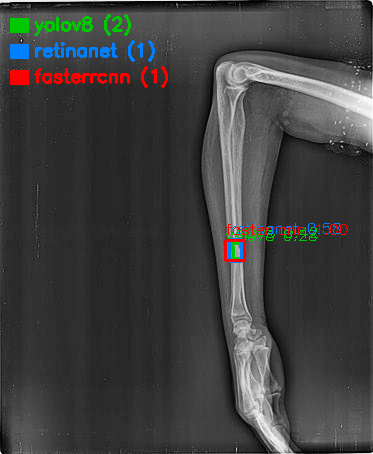
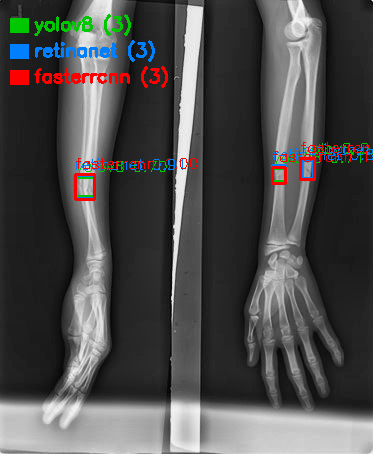
v3: data scale-up with GRAZPEDWRI-DX — sensitivity 0.56 -> 0.81
Merged FracAtlas + GRAZPEDWRI-DX (Roboflow mirror, 1,599 fracture-positive
images) into dataset_v3, 3.2x'ing the fracture-positive count. Retrained
YOLOv8m: test mAP@0.5 0.46 -> 0.76, image-level sensitivity 0.56 -> 0.81,
max achievable recall ceiling 0.797 -> 0.875.

Gains are wrist-concentrated (GRAZPEDWRI is wrist-only); hip/shoulder remain
unevaluable and unaddressed — documented honestly in README + JOURNAL Entry 006.
Updated the live comparison overlay to the v3 model on a FracAtlas test image.

diff --git a/scripts/ingest_grazpedwri.py b/scripts/ingest_grazpedwri.py
@@ -113,7 +113,7 @@ def main() -> None:
     print(f"  background      : {n_neg}")
     print(f"  fracture boxes  : {n_boxes}")
     print(f"  output          : {args.out}")
-    print(f"  (fracture class {args.fracture_class} → 0; other classes dropped)")
+    print(f"  (fracture class {args.fracture_class} -> 0; other classes dropped)")
     if n_pos == 0:
         print("  WARNING: 0 fracture rows kept — check --fracture-class vs the "
               "dataset's data.yaml!")

diff --git a/JOURNAL.md b/JOURNAL.md
@@ -332,3 +332,50 @@ Verified with a save/load round-trip, then RETRAINED RetinaNet → loads & score
 ### Status: v1 is code-complete and staged. Pending user: push + Pages enable.
 ### Next (v1.1+, Track D): acquire GRAZPEDWRI-DX → ingest → merge → retrain to
 lift the 0.797 recall ceiling; revisit fracture-typing via Roboflow HUMERUS.
+
+---
+
+## Entry 006 — 2026-06-14 — Track D: GRAZPEDWRI merge lifts the ceiling (v3)
+
+### Acquisition reality check
+The raw Figshare GRAZPEDWRI-DX release has **no bounding-box labels** — only
+images + image-level metadata (`dataset.csv`, which DOES carry AO/OTA
+`ao_classification` codes → a future Track-B typing source). YOLO boxes come from
+derivatives. Sourced via the **Roboflow mirror** (project-bef88/grazpedwri-dx
+v2) — but it is a **~2,396-image SUBSET**, not the full 20k. Fracture class index
+there is **2**, not 3 (8 classes, `foreignbody` dropped).
+
+### Ingest + merge
+`ingest_grazpedwri.py --fracture-class 2` → **1,599 fracture-positive** images
+(+797 bg, 2,111 boxes). Merged with `FracAtlas_proc` → `dataset_v3`
+(4,861 / 971 / 647). This **3.2×'d the fracture-positive image count**
+(717 → 2,316) — the decisive change, since FracAtlas was mostly negatives.
+
+### v3 results (YOLOv8m, early-stop epoch 92, best 69)
+| Metric (test) | v1 | v3 | Δ |
+|---|---|---|---|
+| mAP@0.5 | 0.460 | **0.761** | +65% |
+| mAP@0.5:0.95 | 0.198 | **0.369** | +86% |
+| image-level sensitivity | 0.561 | **0.812** | +45% |
+| specificity | 0.988 | 0.980 | ~flat |
+| PPV | 0.902 | **0.961** | +7% |
+| **max achievable recall** | 0.797 | **0.875** | ceiling lifted |
+
+### Honest read — gains are wrist-concentrated
+Per-region sensitivity: **unknown (GRAZPEDWRI wrist) 0.879** (174/244 test
+positives), hand 0.568→**0.705**, leg ~flat (0.538). **Hip & shoulder still 0
+test positives — unevaluable and unaddressed.** The headline jump is real but
+driven by the wrist distribution we added; the original FracAtlas regions
+improved modestly. GRAZPEDWRI being wrist-only means hip/shoulder remain the open
+gap (need Roboflow Hip/Humerus).
+
+### Decisions
+- **Shipped model is now `fracture_yolov8m_v3`.** Site overlay + README updated
+  to v3 (on a FracAtlas test image so all 3 backbones get a fair comparison).
+- Backbone study stays on `dataset_v2` (apples-to-apples); v3 is the data-scaling
+  result, presented separately to avoid mixing test sets.
+- Full 20k GRAZPEDWRI (OneDrive) and hip/shoulder sets remain the next data lever.
+
+### Status: v3 trained, evaluated, site regenerated, staged for commit.
+### Next: commit v3 (user pushes); then Roboflow Hip/Humerus for the remaining
+blind spots + AO/OTA typing track (data now identified in dataset.csv).

diff --git a/README.md b/README.md
@@ -11,35 +11,42 @@ separately or together.
 > ⚠️ Research/educational tool only. Outputs are "best guess" estimates and are
 > **not** a medical diagnosis. Always recommend a qualified orthopedic consult.
 
-## Results (current model)
+## Results
 
-Detector **YOLOv8m**, trained on the Phase-1 harmonized FracAtlas split
-(`dataset_v2`), evaluated on the held-out test split. The screening metrics
-matter more than mAP here — for fracture triage a *miss* is worse than a false
-alarm — so image-level sensitivity/specificity are reported alongside.
+Shipped detector: **YOLOv8m** (`fracture_yolov8m_v3`), trained on the harmonized
+**FracAtlas + GRAZPEDWRI-DX** merge (`dataset_v3`). The model improved in three
+deliberate stages — bigger backbone + harmonization, then a data scale-up — and
+the gains are reported honestly, including *where they did and didn't land*.
 
-**Backbone comparison** (same test split, single `fracture` class):
+**Progression** (held-out test split, image-level screening):
+
+| Version | Data | mAP@0.5 | Sensitivity | Specificity | Max recall |
+|---|---|---|---|---|---|
+| v1-baseline (v8s) | FracAtlas | 0.27 | — | — | — |
+| v1 (v8m, harmonized) | FracAtlas | 0.46 | 0.561 | 0.988 | 0.797 |
+| **v3 (v8m + GRAZPEDWRI)** | FracAtlas + wrist | **0.76** | **0.812** | 0.980 | **0.875** |
+
+v3 PPV **0.961** (TP 198 / FP 8 / TN 395 / FN 46 on 647 test images).
+
+**Backbone study** (separate apples-to-apples comparison on `dataset_v2`, all
+three trained + tested on identical data):
 
 | Backbone | mAP@0.5 | mAP@0.5:0.95 | Recall |
 |---|---|---|---|
-| **YOLOv8m** (shipped) | **0.460** | **0.198** | **0.429** |
+| **YOLOv8m** | **0.460** | **0.198** | **0.429** |
 | Faster R-CNN R50-FPNv2 | 0.354 | 0.171 | 0.288 |
 | RetinaNet R50-FPNv2 | 0.240 | 0.072 | 0.188 |
 
-**Image-level screening** (YOLOv8m, conf ≥ 0.25): sensitivity **0.561**,
-specificity **0.988**, PPV **0.902** (TP 37 / FP 4 / TN 338 / FN 29).
-
-**Honest limitations** (see [JOURNAL.md](JOURNAL.md) for the full analysis):
-- Harmonization (CLAHE + truncation repair + imgsz 800 + bigger backbone)
-  **nearly doubled** every metric over the v8s baseline (mAP@0.5 0.27 → 0.48).
-- But the model still misses ~44% of fractures, and recall **cannot** be tuned
-  past **0.797** at any threshold — a *data* limit, not a tuning one.
-- Hip/shoulder are near-unevaluable (≈1 / 0 fractured test cases). The path to
-  the sensitivity goal runs through **more boxed data** (GRAZPEDWRI-DX, Roboflow
-  Hip/Humerus — see `analysis/data_sourcing_log.md`), not more model tweaks.
+**Honest limitations** (full analysis in [JOURNAL.md](JOURNAL.md)):
+- The v3 jump is **largely wrist-driven** — GRAZPEDWRI is wrist-only, and its
+  region carries 0.879 sensitivity vs FracAtlas hand 0.705 / leg 0.538.
+- **Hip and shoulder remain unevaluable** (0 fractured test cases) and unimproved
+  — they need targeted data (Roboflow Hip/Humerus), not more wrist images.
+- Recall still cannot be pushed past **0.875**; ≥0.90 sensitivity needs more
+  region-diverse boxed data.
 - A MURA abnormality-classifier ensemble was tested and **rejected** — it traded
-  away specificity (0.99 → 0.87) without recovering missed fractures, because
-  MURA's "abnormal" label ≠ fracture (Entry 004). Studied negative result.
+  specificity (0.99 → 0.87) for nothing, since MURA "abnormal" ≠ fracture
+  (a studied negative result, Entry 004).
 
 ## Layout
 